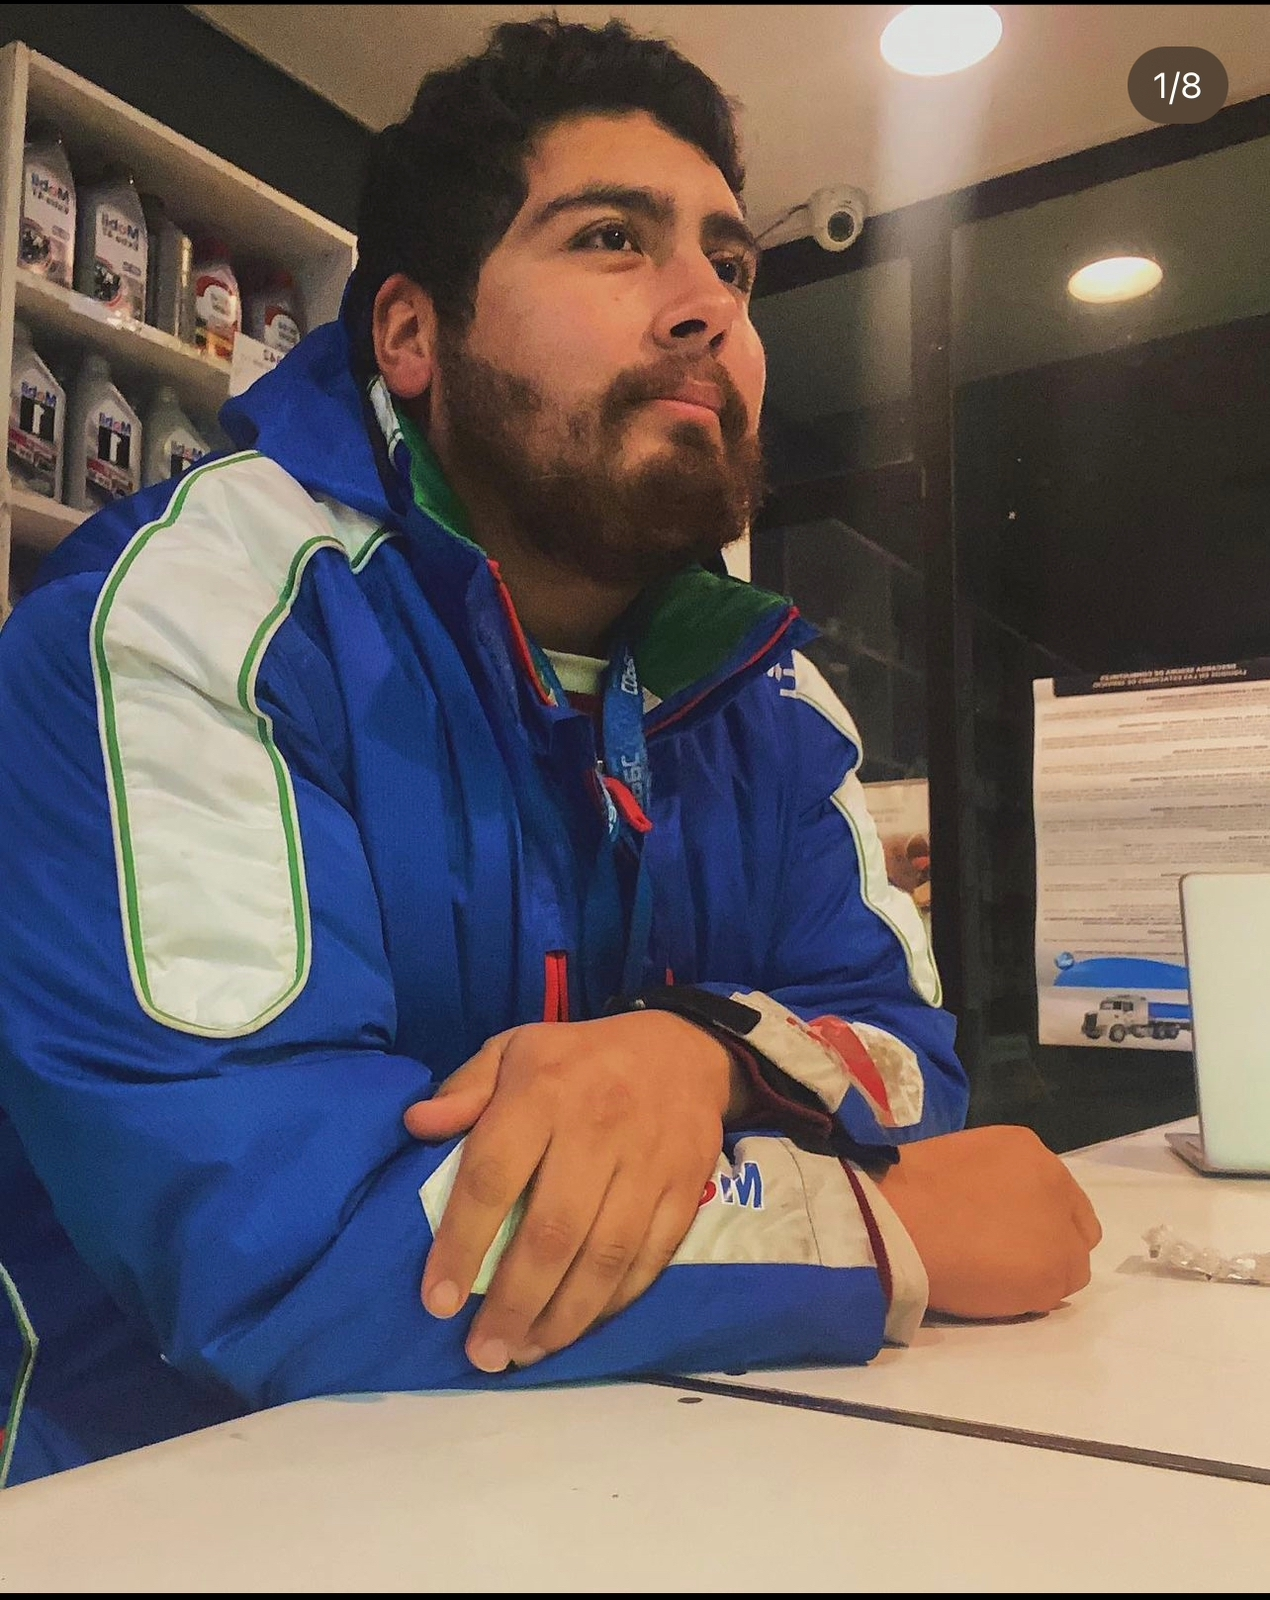
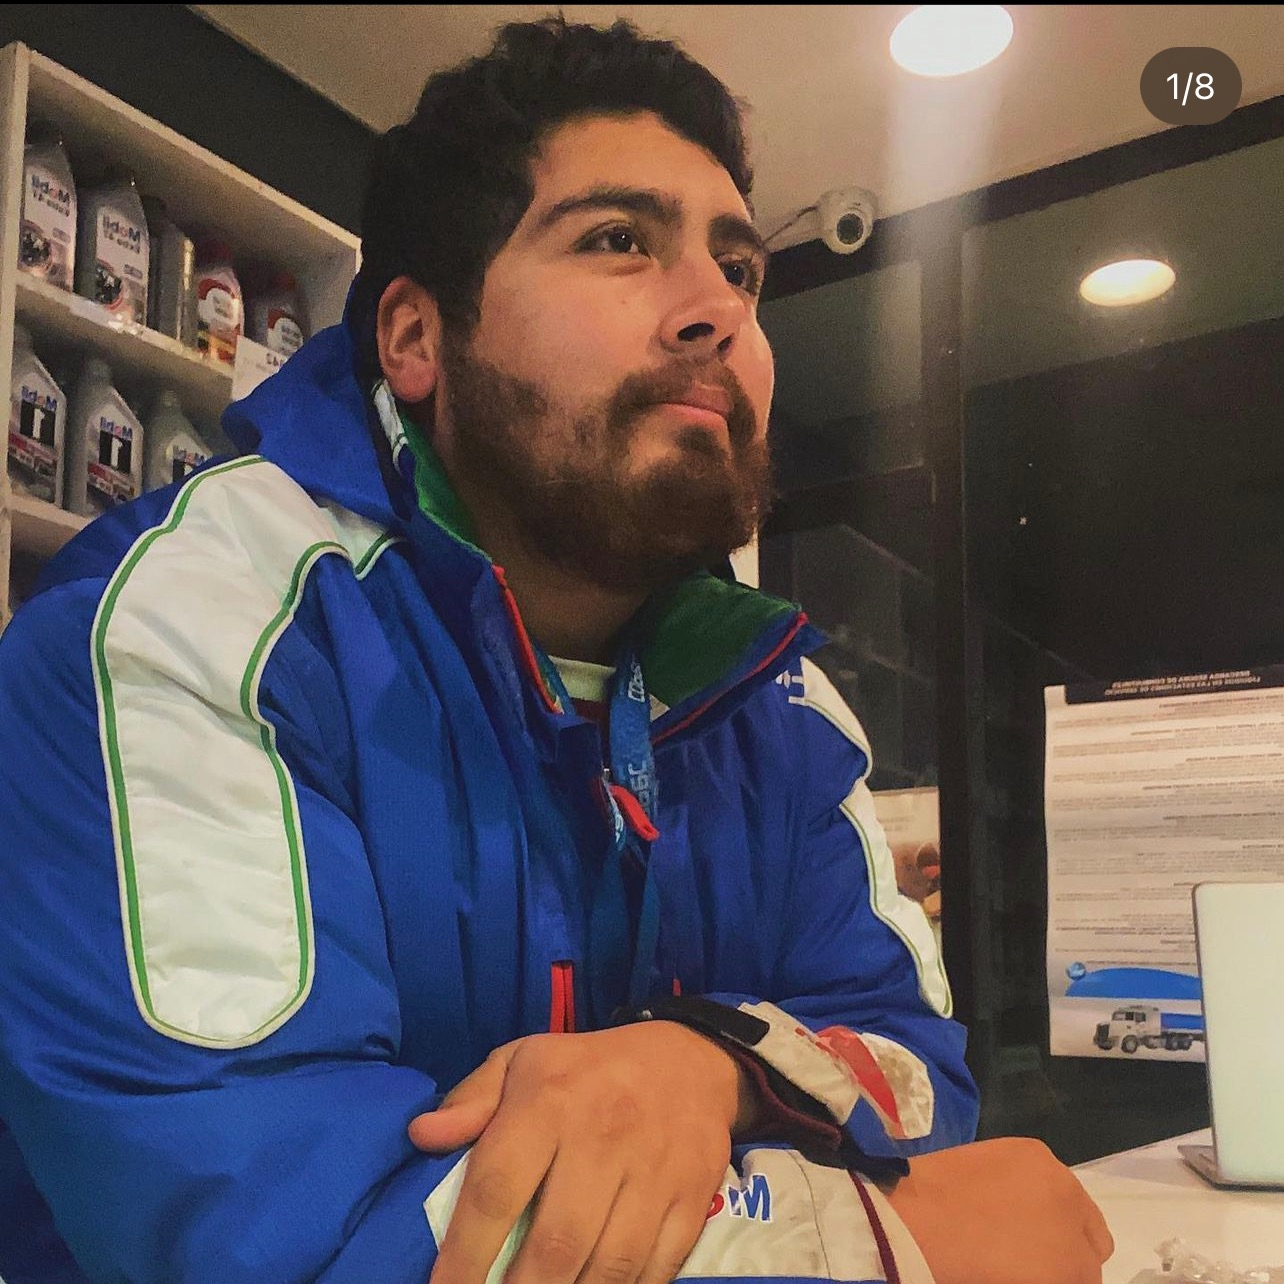
cambio de foto en fila 138

diff --git a/index.html b/index.html
@@ -135,7 +135,7 @@
             </div>
             <div class="col-12 col-sm-4 py-2">
                 <div class="card">
-                    <div class="image-top" style="background-image: url(assets/img/card-2.jpg)"></div>
+                    <div class="image-top" style="background-image: url(assets/img/foto3.jpeg)"></div>
                     <div class="card-body">
                         <h5 class="card-title fw-bold">Papas del fin del mundo</h5>
                         <p class="card-text">
